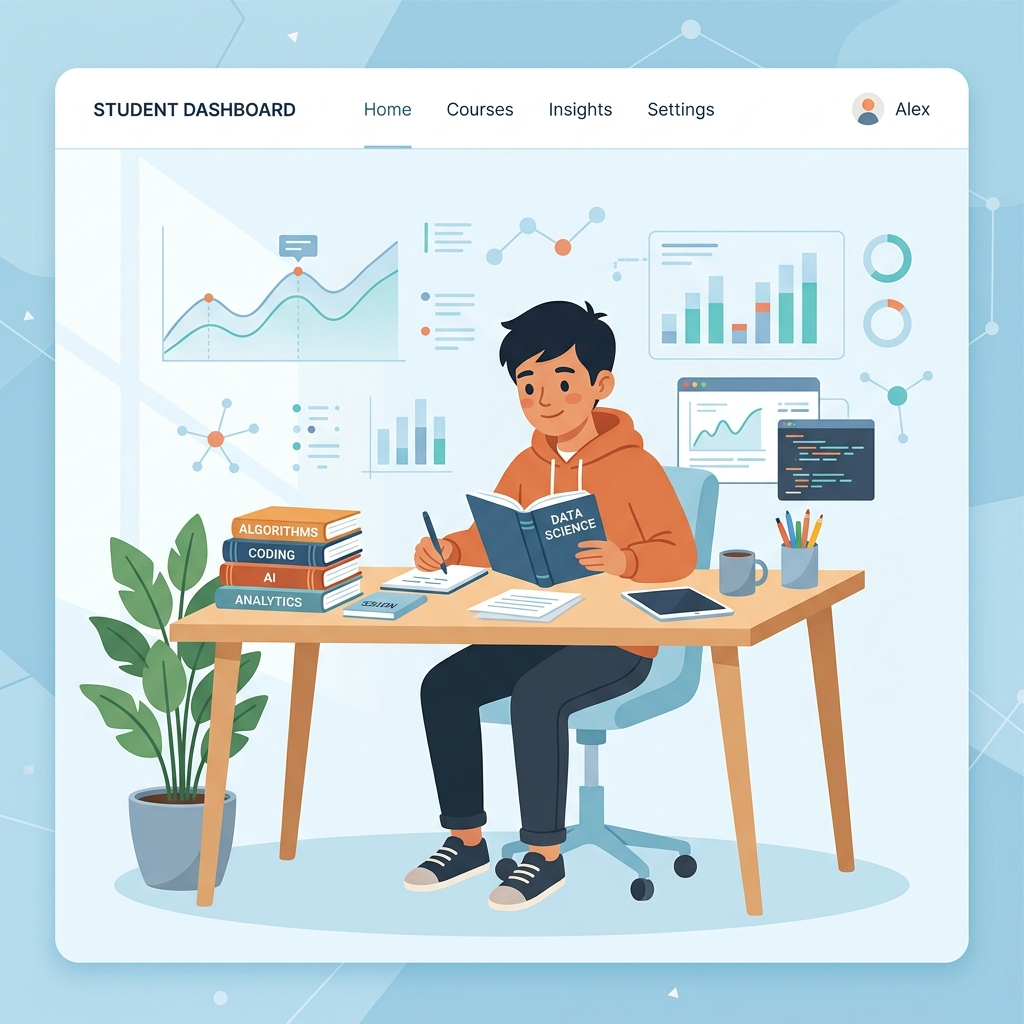
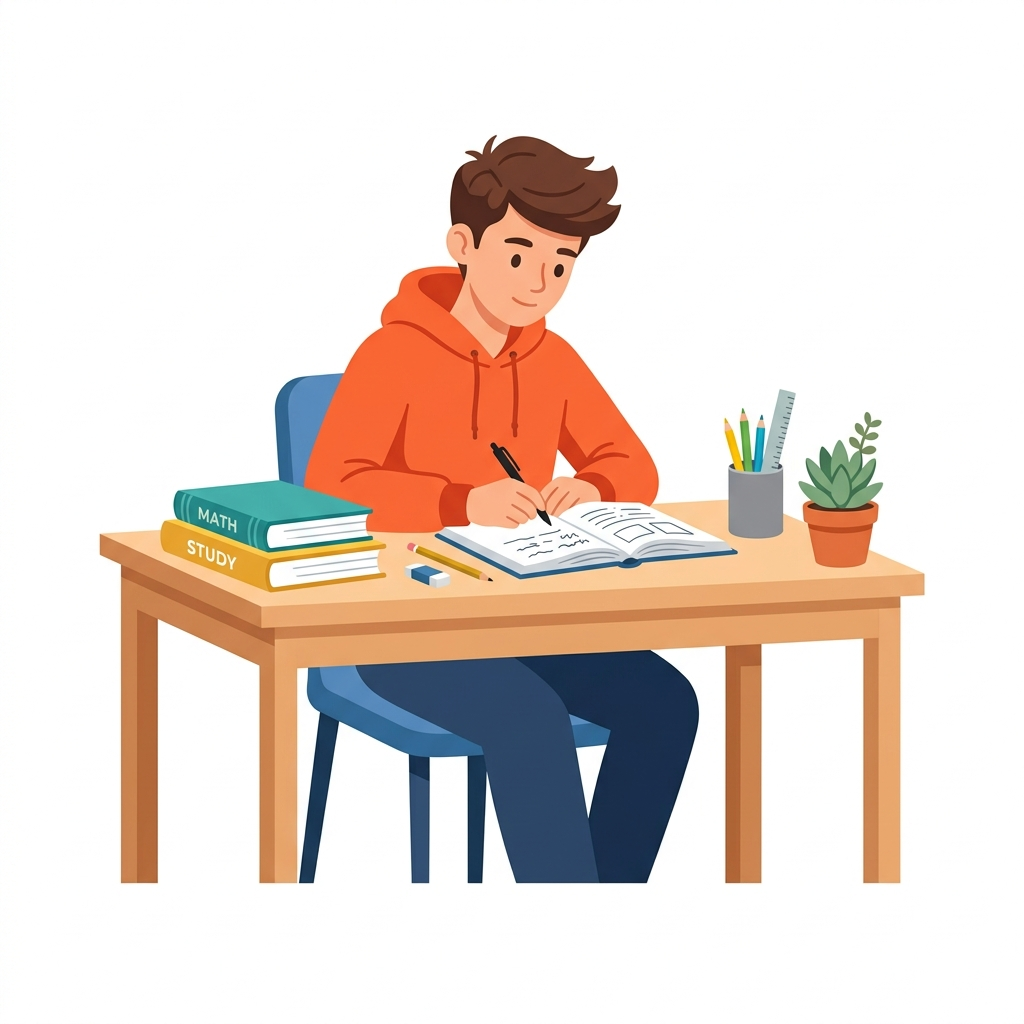
style: apply mix-blend-multiply to blend image backgrounds

diff --git a/src/components/dashboard-siswa/pages/NilaiSiswaPageView.tsx b/src/components/dashboard-siswa/pages/NilaiSiswaPageView.tsx
@@ -711,7 +711,7 @@ function NilaiSiswaPageContent() {
               alt="Ilustrasi Belajar" 
               width={260} 
               height={200} 
-              className="h-auto w-48 rounded-xl object-contain lg:w-64"
+              className="h-auto w-48 rounded-xl object-contain mix-blend-multiply lg:w-64"
               priority
             />
           </div>
@@ -809,7 +809,7 @@ function NilaiSiswaPageContent() {
                         alt="Progres Latihan"
                         width={160}
                         height={160}
-                        className="h-auto w-full rounded-[16px] object-cover"
+                        className="h-auto w-full rounded-[16px] object-cover mix-blend-multiply"
                       />
                     </div>
                     <div className="flex-1">
